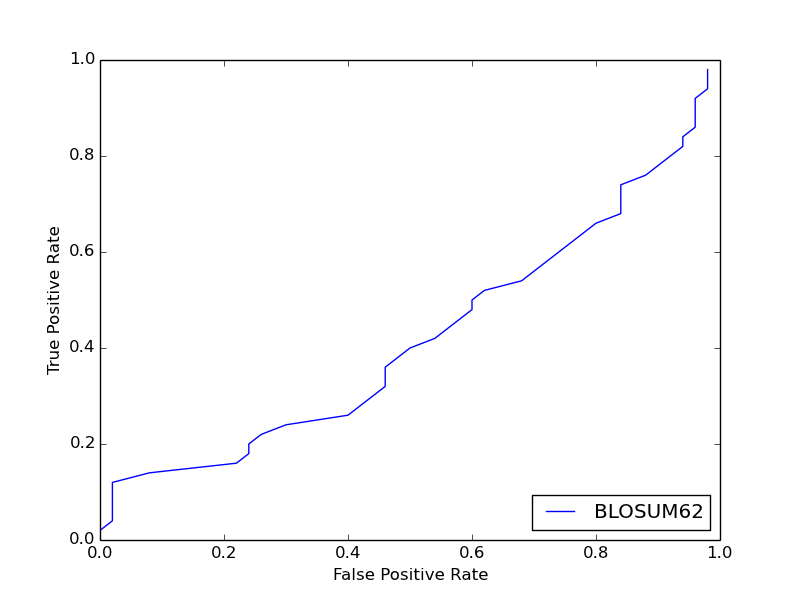
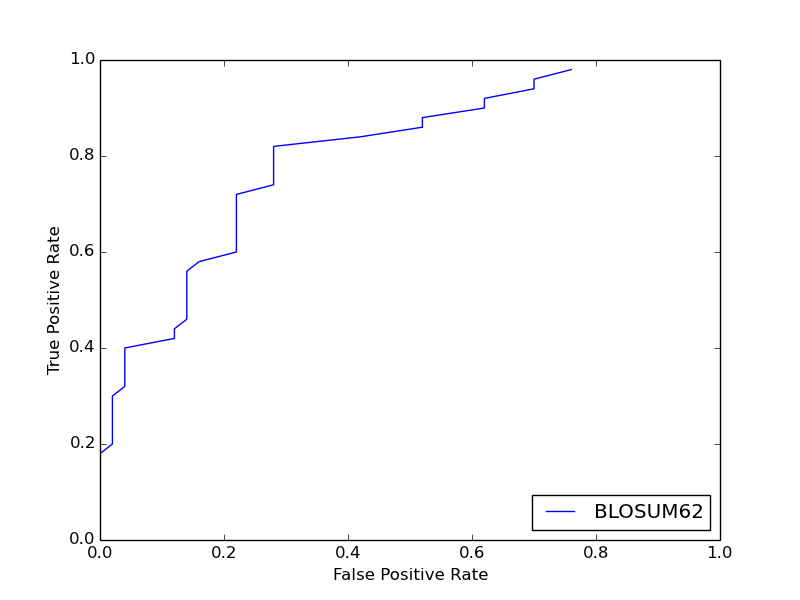
corrected normalization to create raw ROC curve for BLOSUM62

diff --git a/SmithWaterman/SW_run.py b/SmithWaterman/SW_run.py
@@ -134,12 +134,12 @@ def trace_aligned_seq(seq1, seq2, similarity_matrix, pointers, origsubMatrix, su
     seq=seq[::-1]
     newseq1=newseq1[::-1]
     newseq2=newseq2[::-1]
-    altscore = altscore - gap_open*13 - gapcount*3
+    altscore = altscore - gap_open*7 - gapcount*3
     #print 'altscore', altscore
     count_array[0,23] = gap_open
     count_array[23,23]=gapcount
     #H[start,end]=0
     # to test ROC, average by minimum len of the compared pair
-    score = score/min(len(seq1), len(seq2))
+    #score = score/min(len(seq1), len(seq2))
     return seq, newseq1, newseq2, H, score, count_array
 

diff --git a/SmithWaterman/optimize_submatrix.py b/SmithWaterman/optimize_submatrix.py
@@ -132,7 +132,7 @@ def main():
     
     subMatrixFile = sys.argv[4]
     
-    gap_init = 13
+    gap_init = 7
     gap_ext = 3
     
     [sub_Matrixdict, origSubMatrix, AAlist] = subMdict.mk_dict(home+subMatrixFile)
